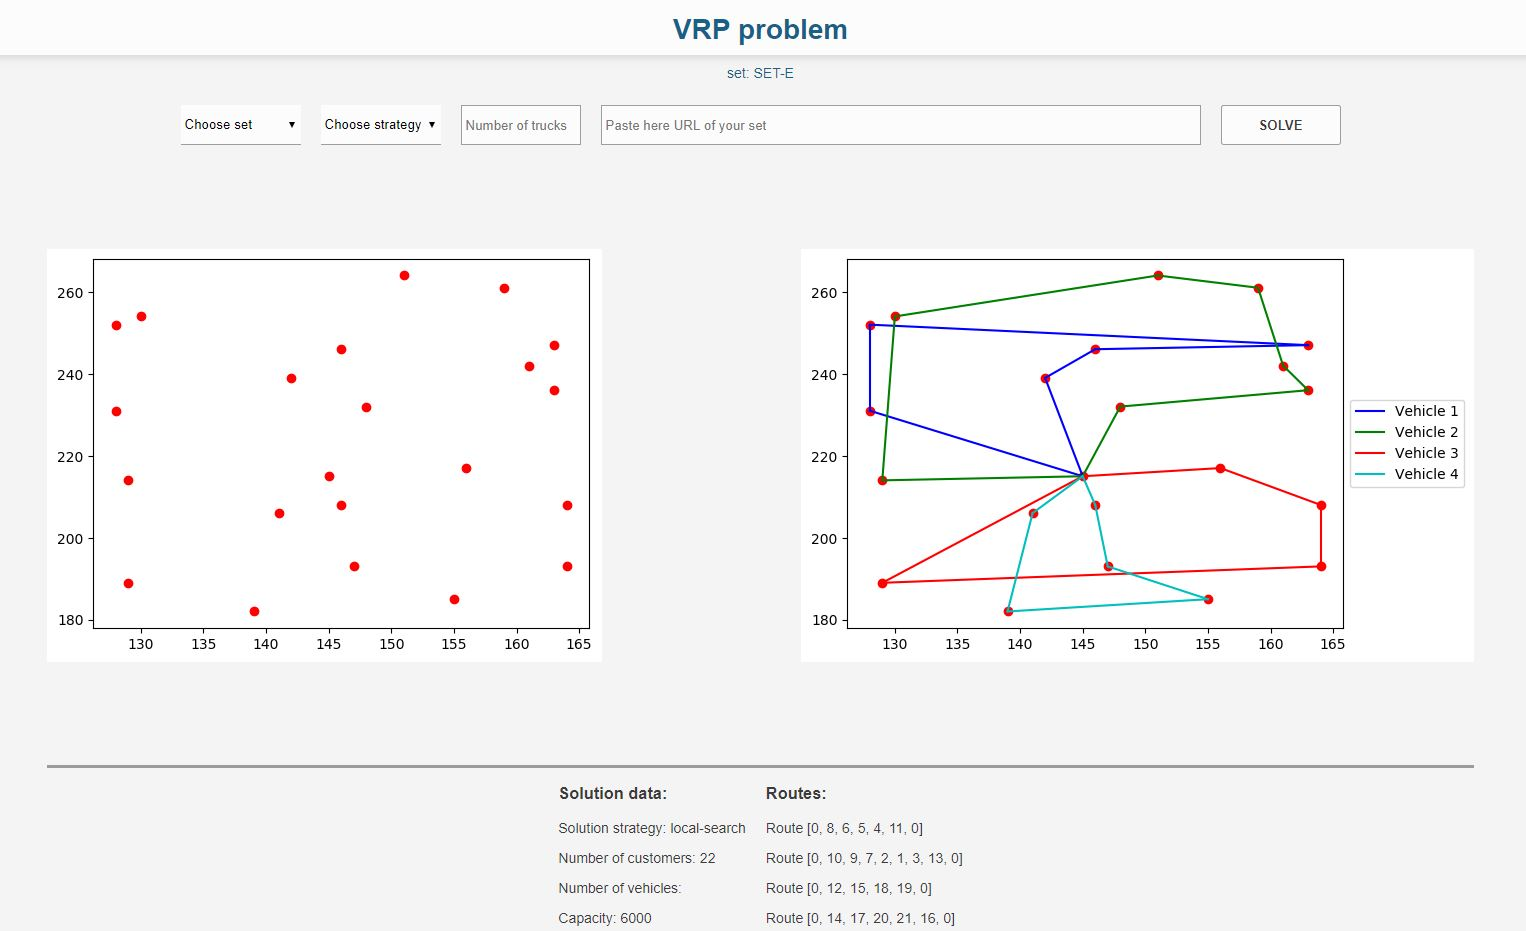
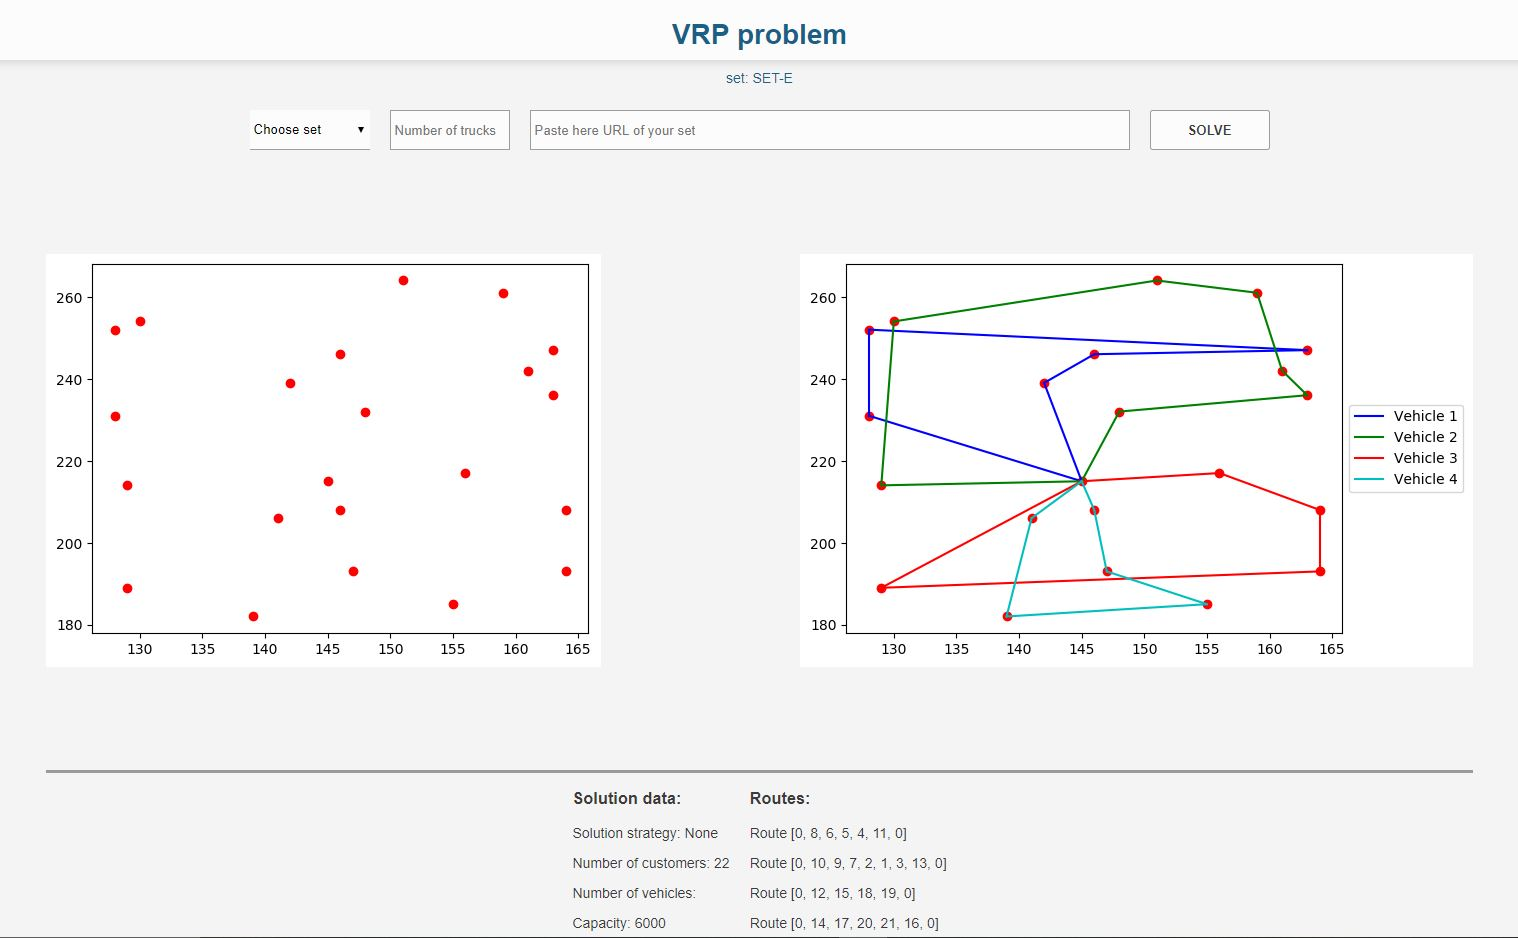
Handling another set of data

diff --git a/templates/index.html b/templates/index.html
@@ -24,11 +24,7 @@
             <option value="SET-M">Set M</option>
             <option value="LIU-ET-AL">Liu et al</option>
             <option value="UCHOA">Uchoa et al</option>
-        </select>
-        <select name="strategy">
-            <option value="">Choose strategy</option>
-            <option value="first-solution">First solution strategy</option>
-            <option value="local-search">Local search</option>
+            <option value="ARNOLD">Arnold..</option>
         </select>
         <input type="text" name="trucks" placeholder="Number of trucks" class="input trucks">
         <input type="text" name="url" placeholder="Paste here URL of your set" class="input url">

diff --git a/parseData.py b/parseData.py
@@ -2,9 +2,9 @@ def parse_file(file_string, set, vehicles):
     print('SET: ', set, vehicles)
     if set == 'LIU-ET-AL':
         file_string_split = file_string.split('\r\n')
-    elif set == 'SET-E' or set == 'SET-B' or set == 'SET-A'or set == 'SET-F' or set == 'SET-M':
+    elif set == 'SET-E' or set == 'SET-B' or set == 'SET-A' or set == 'SET-F' or set == 'SET-M':
         file_string_split = file_string.split('\n')
-    elif set == 'UCHOA':
+    elif set == 'UCHOA' or set == "ARNOLD":
         without_tab = file_string.replace('\t', ' ')
         file_string_split = without_tab.split('\r\n')
     print('converted file', file_string_split)
@@ -24,7 +24,7 @@ def parse_file(file_string, set, vehicles):
             without_coma = vehicles.replace(',', '')
             print('trucks str', without_coma)
             vehicles = int(without_coma)
-        if set == 'LIU-ET-AL' or set == 'UCHOA':
+        if set == 'LIU-ET-AL' or set == 'UCHOA' or set == 'ARNOLD':
             vehicles = int(vehicles)
 
     capacity = [capacity] * vehicles
@@ -36,7 +36,6 @@ def parse_file(file_string, set, vehicles):
     else:
         points_string = file_string_split[index_coord:index_coord + dimension - 1]
         demands_string = file_string_split[index_demand:index_demand + dimension - 1]
-
 
     point_int = []
     for point in points_string:

diff --git a/vrp.py b/vrp.py
@@ -55,7 +55,7 @@ def cvrp(data, set, vehicles, strategy):
         True,  # start cumul to zero
         'Capacity')
 
-    # Setting first solution heuristic.
+    # Setting solution heuristic.
     search_parameters = pywrapcp.DefaultRoutingSearchParameters()
 
     if strategy == 'first-solution':
@@ -66,8 +66,12 @@ def cvrp(data, set, vehicles, strategy):
             routing_enums_pb2.LocalSearchMetaheuristic.AUTOMATIC)
         search_parameters.time_limit.seconds = 20
     else:
-        search_parameters.first_solution_strategy = (
-            routing_enums_pb2.FirstSolutionStrategy.PATH_CHEAPEST_ARC)
+        search_parameters.local_search_metaheuristic = (
+            routing_enums_pb2.LocalSearchMetaheuristic.AUTOMATIC)
+        search_parameters.time_limit.seconds = 25
+        # search_parameters.local_search_metaheuristic = (
+        #     routing_enums_pb2.LocalSearchMetaheuristic.TABU_SEARCH)
+        # search_parameters.time_limit.seconds = 20
 
     # Solve the problem.
     assignment = routing.SolveWithParameters(search_parameters)

diff --git a/app.py b/app.py
@@ -20,7 +20,10 @@ def upload():
         strategy = request.form.get('strategy')
         vehicles = request.form['trucks']
         output = urlopen(url).read()
-        file_string = (output.decode('utf-8'))
+        if set != "ARNOLD":
+            file_string = (output.decode('utf-8'))
+        else:
+            file_string = output.decode('ISO 8859-1')
         vehicle_distance, vehicle_load, text, filename, route_arr = vrp.cvrp(file_string, set, vehicles, strategy)
         name, capacity, dimension, point_int, demand_int, trucks = parseData.parse_file(file_string, set, vehicles)
 
